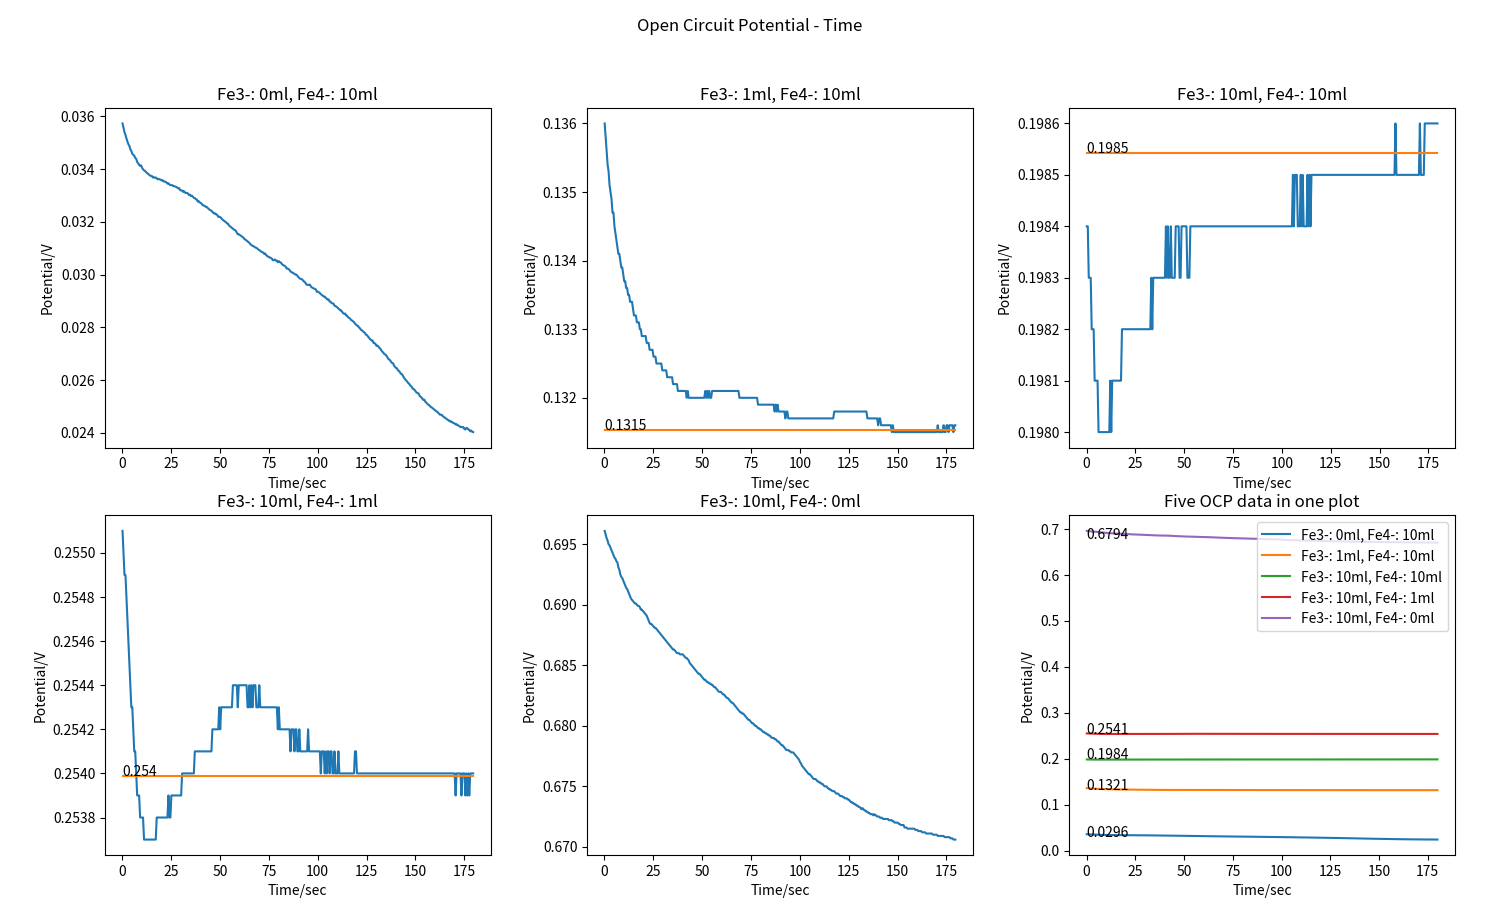
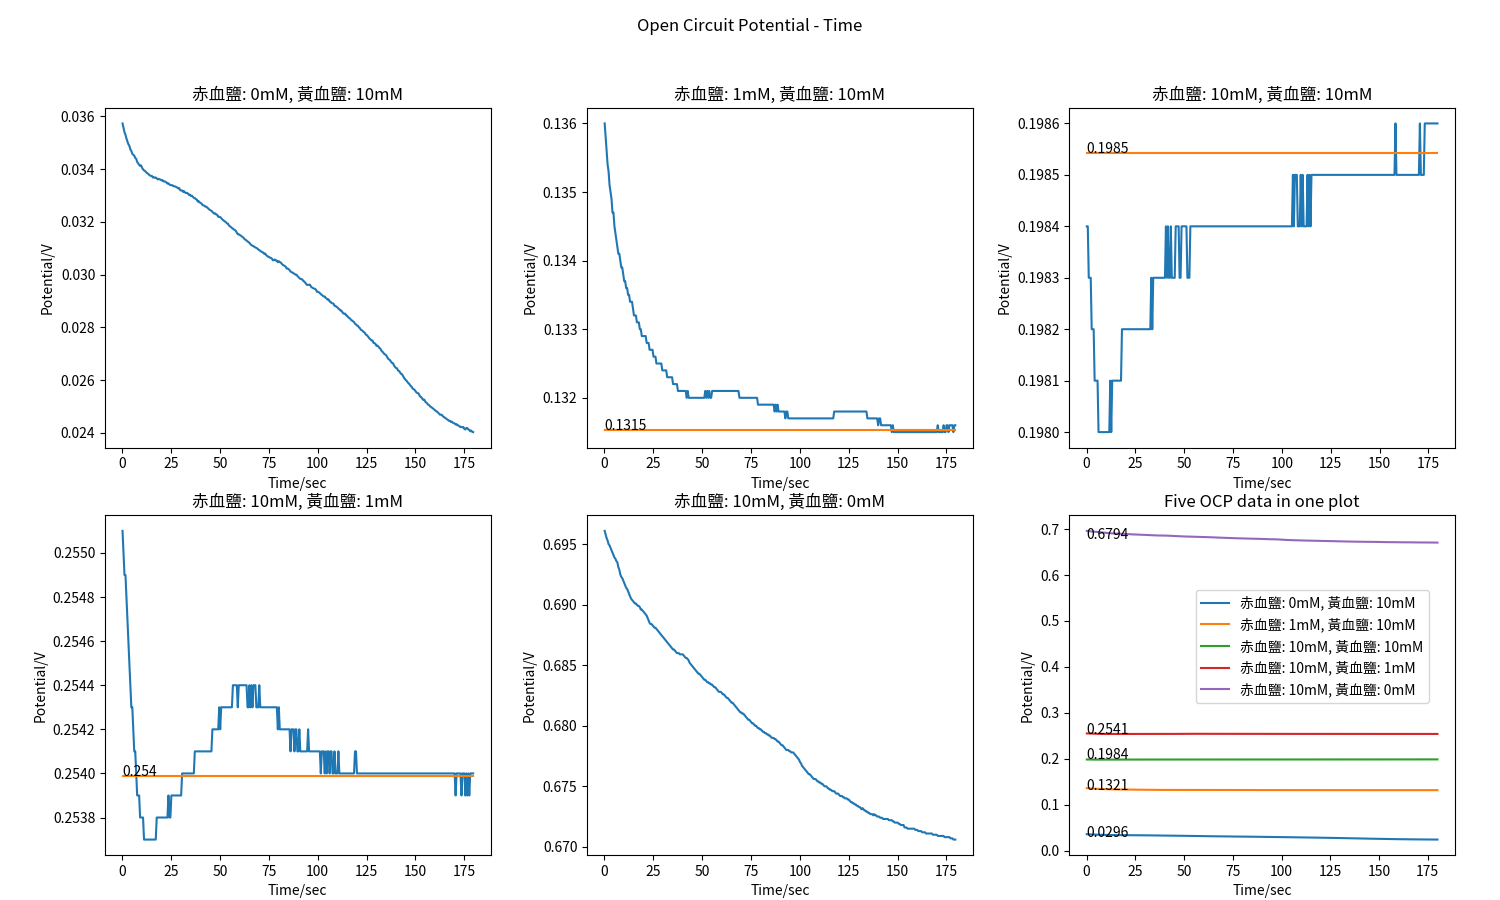
Add regression of OCP

diff --git a/OCP_CV/ocp_reg.py b/OCP_CV/ocp_reg.py
@@ -1,0 +1,68 @@
+import os
+import re
+import numpy as np
+import matplotlib.pyplot as plt
+from scipy.stats import t
+
+def analysisOne(x, y):
+    x = np.array(x)
+    y = np.array(y)
+    # https://en.wikipedia.org/wiki/Simple_linear_regression
+    # bx + a
+    head_b = np.sum((x - x.mean()) * (y - y.mean())) / np.sum((x - x.mean()) ** 2)
+    head_a = y.mean() - head_b * x.mean()
+    fit_y = head_b * x + head_a
+    r_square = np.sum((fit_y - y.mean()) ** 2) / np.sum((y - y.mean()) ** 2)
+
+    # confidence of slope and intercept
+    n = len(x)
+    var_b = np.sum((y - fit_y) ** 2) / (n + 2) / np.sum((x - x.mean()) ** 2)
+    intval_b = np.sqrt(var_b) * t.ppf(0.995, n - 2)
+    var_a = var_b * np.sum(x ** 2) / n
+    intval_a = np.sqrt(var_a) * t.ppf(0.995, n - 2)
+    # plot
+    text = '''\
+In 99% confidence
+slope = {:.3}±{:.3}
+intercept = {:.3}±{:.3}
+r_squre = {:.3}
+'''.format(head_b, intval_b, head_a, intval_a, r_square)
+    fit_y = head_b * x + head_a
+    return text, fit_y
+
+if not os.path.isfile("saveOCP.npz"):
+    print("run ocp.py first")
+    exit()
+else:
+    fload = np.load("saveOCP.npz")
+    meta = fload['meta'] 
+    data = fload['data']
+
+rank = np.argsort(data.mean(axis=1)[:, 1])
+data = data[rank]
+meta = meta[rank]
+
+# number = 5
+plt.title("OCP linear Regression")
+# plt.subplots_adjust(left=0.07, right=0.97, bottom=0.05, wspace=0.25)
+
+x = []
+y = []
+for i in range(1, 4):
+    x.append(float(meta[i][0]['3-']) / float(meta[i][0]['4-']))
+    y.append(data[i, (-len(data[i, :, 0]) // 10):, 1].mean())
+x = np.log10(x)
+text, fit_y = analysisOne(x, y)
+plt.text(.95, .05, text,
+         horizontalalignment='right',
+         verticalalignment='bottom',
+         transform=plt.gca().transAxes)
+plt.plot(x, y, 'o', label="original data")
+plt.plot(x, fit_y, label="fit line")
+plt.legend(loc = 0)
+plt.xlabel("log([O] / [R])")
+plt.ylabel(meta[i][1][1])
+
+plt.savefig('ocp_reg.png')
+plt.show()
+

diff --git a/OCP_CV/ocp.py b/OCP_CV/ocp.py
@@ -51,16 +51,17 @@ plt.subplots_adjust(left=0.07, right=0.97, bottom=0.05, wspace=0.25)
 alltext = []
 for i in range(5):
     plt.subplot(2, 3, i + 1)
-    text = "Fe3-: " + meta[i][0]['3-'] + "ml, "
-    text += "Fe4-: " + meta[i][0]['4-'] + "ml"
+    text = "赤血鹽: " + meta[i][0]['3-'] + "mM, "
+    text += "黃血鹽: " + meta[i][0]['4-'] + "mM"
+
     alltext.append(text)
     plt.title(text)
     plt.xlabel(meta[i][1][0])
     plt.ylabel(meta[i][1][1])
     plt.plot(data[i, ::5, 0], data[i, ::5, 1])
-
     
     last = data[i, (-len(data[i, :, 0]) // 10):, 1]
+    print(last.mean())
     if last.max() - last.min() < 0.0001:
         plt.plot(data[i, ::5, 0], np.repeat(last.mean(), len(data[i, ::5, 0])))
         plt.text(0, last.mean(), np.round(last.mean(), 4))
@@ -72,7 +73,7 @@ for i in range(5):
     plt.text(0, data[i, :, 1].mean(), np.round(data[i, :, 1].mean(), 4))
 plt.xlabel(meta[0][1][0])
 plt.ylabel(meta[0][1][1])
-plt.legend(alltext)
+plt.legend(alltext, bbox_to_anchor=(0.95, 0.8))
 
 plt.savefig('ocp.png')
 plt.show()
